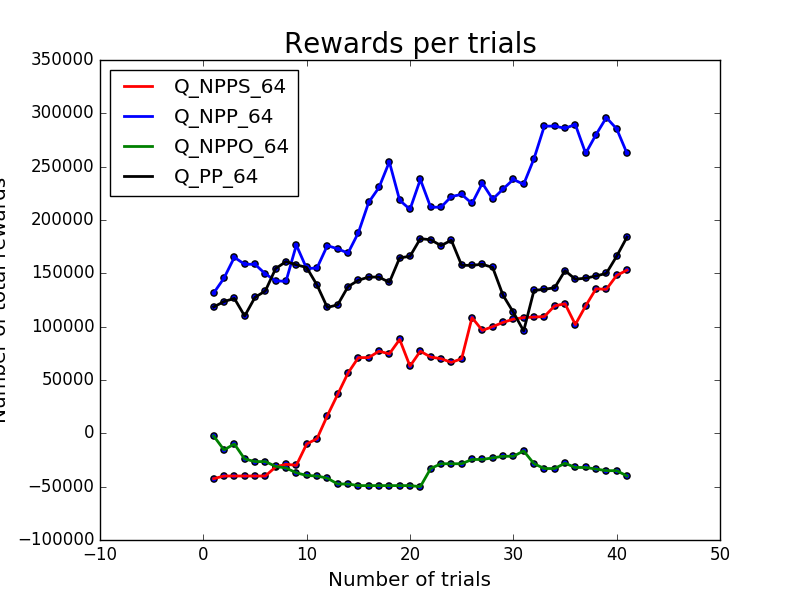
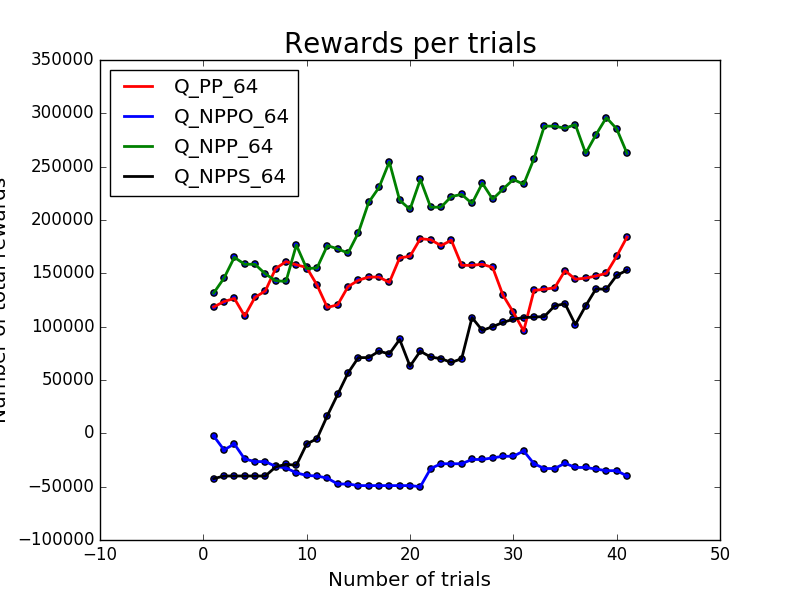
Rewards

diff --git a/src/evaluation.py b/src/evaluation.py
@@ -36,6 +36,7 @@ def evaluator(rlAlgorithm,featureExtractor,nameAlg,nameFeat,multiple = 1.0,numTr
             outcome = simulate(ab,rl,numTrials=1, maxIterations=1000, verbose=False, show=False)
             levelsPassed = levelsPassed + outcome['levelsPassed']
             totalRewards = totalRewards + outcome['totalRewards']
+            print(totalRewards)
             trial +=1
 
     elif nameAlg == 'LSVI':
@@ -48,6 +49,8 @@ def evaluator(rlAlgorithm,featureExtractor,nameAlg,nameFeat,multiple = 1.0,numTr
                 outcome = simulate(ab,rl,numTrials=1, maxIterations=1000, verbose=False, show=False)
                 levelsPassed = levelsPassed + outcome['levelsPassed']
                 totalRewards = totalRewards + outcome['totalRewards']
+                print(totalRewards)
+
                 trial +=1
             except AssertionError:
                 break
@@ -55,12 +58,14 @@ def evaluator(rlAlgorithm,featureExtractor,nameAlg,nameFeat,multiple = 1.0,numTr
         while trial<numTrials:
             try:
                 print (trial)
-                rl.makeRLSVI()
+                rl.rlsvi.sigma = 500.0
                 simulate(ab,rl,numTrials=1, maxIterations=1000, verbose=False, show=False)
-                rl.makeLSVI(0.0)
+                rl.rlsvi.sigma = 1.0
                 outcome = simulate(ab,rl,numTrials=1, maxIterations=1000, verbose=False, show=False)
                 levelsPassed = levelsPassed + outcome['levelsPassed']
                 totalRewards = totalRewards + outcome['totalRewards']
+                print(totalRewards)
+
                 trial +=1
             except AssertionError:
                 break
@@ -173,37 +178,55 @@ if __name__ == '__main__':
     # evaluator(QLearningAlgorithm,agent.NPPFeatureExtractor,'Q','NPP',multiple = 1.0,numTrials=50, epsilon = 0.3, sigma = 500)
     # evaluator(QLearningAlgorithm,agent.NPPOFeatureExtractor,'Q','NPPO',multiple = 1.0,numTrials=50, epsilon = 0.3, sigma = 500)
     # evaluator(QLearningAlgorithm,agent.NPPSFeatureExtractor,'Q','NPPS',multiple = 1.0,numTrials=50, epsilon = 0.3, sigma = 500)
-    # evaluator(RLSVI,agent.nestedGridFeatureExtractor,'RLSVI','NPP',numFeat = 1.0,numTrials=50, epsilon = 0.0, sigma = 500)
-    # evaluator(RLSVI,agent.nestedGridFeatureExtractor,'LSVI','NPP',numFeat = 1.0,numTrials=50, epsilon = 0.3, sigma = 500)
+    evaluator(RLSVI,agent.NPPFeatureExtractor,'RLSVI','NPP',multiple = 1.0,numTrials=50, epsilon = 0.0, sigma = 500)
+    evaluator(RLSVI,agent.NPPFeatureExtractor,'LSVI','NPP',multiple = 1.0,numTrials=50, epsilon = 0.3, sigma = 500)
     # evaluator(QLearningAlgorithm,agent.NPPFeatureExtractor,'Q','NPP',multiple = 2.0,numTrials=50, epsilon = 0.3, sigma = 500)
-    # evaluator(RLSVI,agent.nestedGridFeatureExtractor,'RLSVI','NPP',numFeat = 2.0,numTrials=50, epsilon = 0.0, sigma = 500)
-    # evaluator(RLSVI,agent.nestedGridFeatureExtractor,'LSVI','NPP',numFeat = 2.0,numTrials=50, epsilon = 0.3, sigma = 500)
+    # evaluator(RLSVI,agent.NPPFeatureExtractor,'RLSVI','NPP',multiple = 2.0,numTrials=50, epsilon = 0.0, sigma = 500)
+    # evaluator(RLSVI,agent.NPPFeatureExtractor,'LSVI','NPP',multiple = 2.0,numTrials=50, epsilon = 0.3, sigma = 500)
     # evaluator(QLearningAlgorithm,agent.NPPFeatureExtractor,'Q','NPP',multiple = 2.0,numTrials=50, epsilon = 0.3, sigma = 500)
-    # evaluator(RLSVI,agent.nestedGridFeatureExtractor,'RLSVI','NPP',numFeat = 2.0,numTrials=50, epsilon = 0.0, sigma = 500)
-    # evaluator(RLSVI,agent.nestedGridFeatureExtractor,'LSVI','NPP',numFeat = 2.0,numTrials=50, epsilon = 0.3, sigma = 500)
+    # evaluator(RLSVI,agent.NPPFeatureExtractor,'RLSVI','NPP',numFeat = 2.0,numTrials=50, epsilon = 0.0, sigma = 500)
+    # evaluator(RLSVI,agent.NPPFeatureExtractor,'LSVI','NPP',numFeat = 2.0,numTrials=50, epsilon = 0.3, sigma = 500)
 
     #
 
-    # trials = range(1,42)
-    #
-    # #Comparison
-    # totalRewards = {'Q_PP_64': pickle.load(open('../results/totalRewards_Q_PP_64.0','rb')), \
-    #             'Q_NPP_64': pickle.load(open('../results/totalRewards_Q_NPP_64.0','rb')),\
-    #             'Q_NPPO_64': pickle.load(open('../results/totalRewards_Q_NPPO_64.0','rb')),\
-    #             'Q_NPPS_64': pickle.load(open('../results/totalRewards_Q_NPPS_64.0','rb'))}
-    # colors = ['red','blue','green','black']
-    #
-    # plt.figure()
-    # for i , name in enumerate(totalRewards.keys()):
-    #     rewards = movingAverage(totalRewards[name])
-    #     plt.plot(trials,rewards,lw=2,color=colors[i], label = name)
-    #     plt.scatter(trials,rewards)
-    #
-    # plt.legend(loc='upper left')
-    # plt.xlabel('Number of trials',fontsize='large')
-    # plt.ylabel('Number of total rewards',fontsize='large')
-    # plt.title('Rewards per trials', fontsize=20)
-    # plt.savefig('../plots/totalReward.png')
+    trials = range(1,42)
+
+    #Comparison
+    totalRewards = {'Q_PP_64': pickle.load(open('../results/totalRewards_Q_PP_64.0','rb')), \
+                'Q_NPP_64': pickle.load(open('../results/totalRewards_Q_NPP_64.0','rb')),\
+                'Q_NPPO_64': pickle.load(open('../results/totalRewards_Q_NPPO_64.0','rb')),\
+                'Q_NPPS_64': pickle.load(open('../results/totalRewards_Q_NPPS_64.0','rb'))}
+    colors = ['red','blue','green','black']
+
+    plt.figure()
+    for i , name in enumerate(totalRewards.keys()):
+        rewards = movingAverage(totalRewards[name])
+        plt.plot(trials,rewards,lw=2,color=colors[i], label = name)
+        plt.scatter(trials,rewards)
+
+    plt.legend(loc='upper left')
+    plt.xlabel('Number of trials',fontsize='large')
+    plt.ylabel('Number of total rewards',fontsize='large')
+    plt.title('Rewards per trials', fontsize=20)
+    plt.savefig('../plots/totalReward.png')
+
+    totalRewards = {'Q_NPP_64': pickle.load(open('../results/totalRewards_Q_NPP_128.0','rb')), \
+                    'RLSVI_NPP_64': pickle.load(open('../results/totalRewards_RLSVI_NPP_128.0','rb')),
+                    'LSVI_NPP_64': pickle.load(open('../results/totalRewards_LSVI_NPP_128.0','rb'))}
+    colors = ['red','blue','green','black']
+
+    plt.figure()
+    for i , name in enumerate(totalRewards.keys()):
+        rewards = movingAverage(totalRewards[name],window=20)
+        trials = range(len(rewards))
+        plt.plot(trials,rewards,lw=2,color=colors[i], label = name)
+        plt.scatter(trials,rewards)
+
+    plt.legend(loc='upper left')
+    plt.xlabel('Number of trials',fontsize='large')
+    plt.ylabel('Number of total rewards',fontsize='large')
+    plt.title('Rewards per trials', fontsize=20)
+    plt.savefig('../plots/totalReward2.png')
 
 # ############################################# Evaluation of Level 5
 #     ab = AngryBirdsMDP(level = 5)

diff --git a/src/GameAgent.py b/src/GameAgent.py
@@ -29,7 +29,7 @@ class angryAgent:
         # Current setting: 45 options, given by 5 distances (=launch power) and 9 angles.
         # TODO: test if reducing number of distances and increasing angles helps performance (intuition)
         allowedAngles = [x/10.0/multiple * math.pi for x in range(int(5*multiple), int(13*multiple), 1)] # 0.5pi (90deg upwards) to 1.25pi (45deg downwards)
-        allowedDistances = range(20, 90+1, int(20 * multiple))
+        allowedDistances = range(20, 90+1, int(20 / multiple))
         return [(a, d) for a in allowedAngles for d in allowedDistances]
 
     def featureExtractorXYaction(self, state, action):
